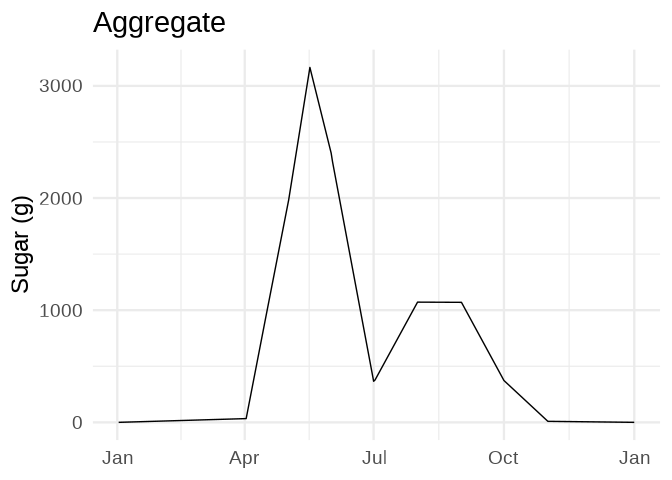
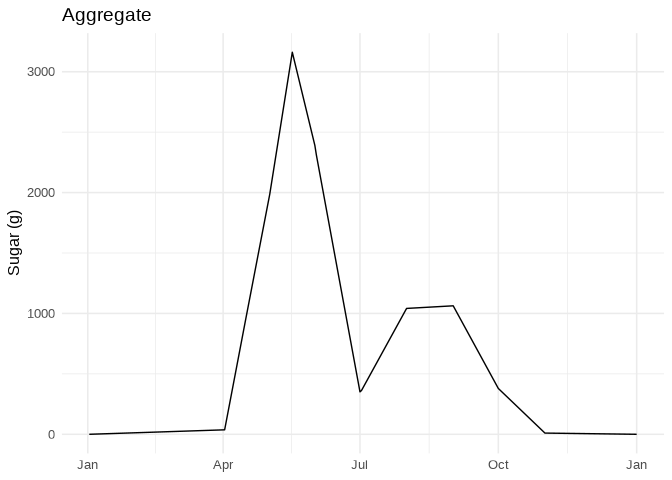
tweaked figures

diff --git a/README.md b/README.md
@@ -214,7 +214,7 @@ availability using line or area plots.
 
     ggplot(land1_tally_agg, aes(date, total.sugar)) +
       geom_line() +
-      theme_minimal(18) +
+      theme_minimal(12) +
       scale_x_date(date_labels = "%b") +
       labs(x = NULL, y = "Sugar (g)", title = "Aggregate")
 
@@ -222,7 +222,7 @@ availability using line or area plots.
 
     ggplot(land1_tally_class, aes(date, total.sugar, color = class)) +
       geom_line() +
-      theme_minimal(18) +
+      theme_minimal(12) +
       scale_x_date(date_labels = "%b") +
       labs(x = NULL, y = "Total sugar (g)", color = "Habitat class",
            title = "By habitat class") 
@@ -231,7 +231,7 @@ availability using line or area plots.
 
     ggplot(land1_tally_plant, aes(date, total.sugar, color = plant)) +
       geom_line() +
-      theme_minimal(18) +
+      theme_minimal(12) +
       scale_x_date(date_labels = "%b") +
       labs(x = NULL, y = "Total sugar (g)", color = "Plant sp.",
            title = "By plant species")
@@ -240,7 +240,7 @@ availability using line or area plots.
 
     ggplot(land1_tally_morph, aes(date, total.sugar, color = flower.shape)) +
       geom_line() +
-      theme_minimal(18) +
+      theme_minimal(12) +
       scale_x_date(date_labels = "%b") +
       labs(x = NULL, y = "Total sugar (g)", color = "Floral morphotype",
            title = "By flower shape") 
@@ -249,7 +249,7 @@ availability using line or area plots.
 
     ggplot(land1_tally_plant, aes(date, total.sugar, fill = plant)) +
       geom_area(color = "white") +
-      theme_minimal(18) +
+      theme_minimal(12) +
       scale_x_date(date_labels = "%b") +
       scale_fill_viridis_d(option = "inferno", direction = 1) +
       labs(x = NULL, y = "Total sugar (g)", fill = "Plant sp.",
